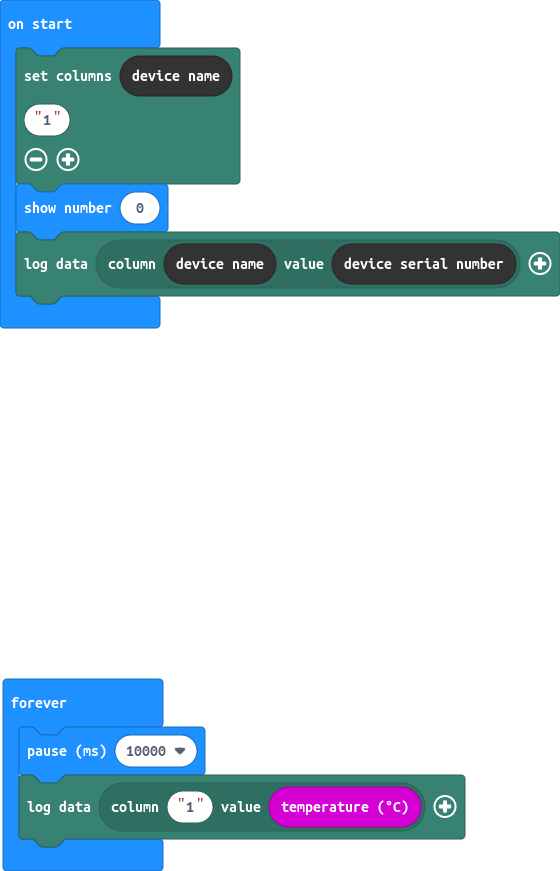
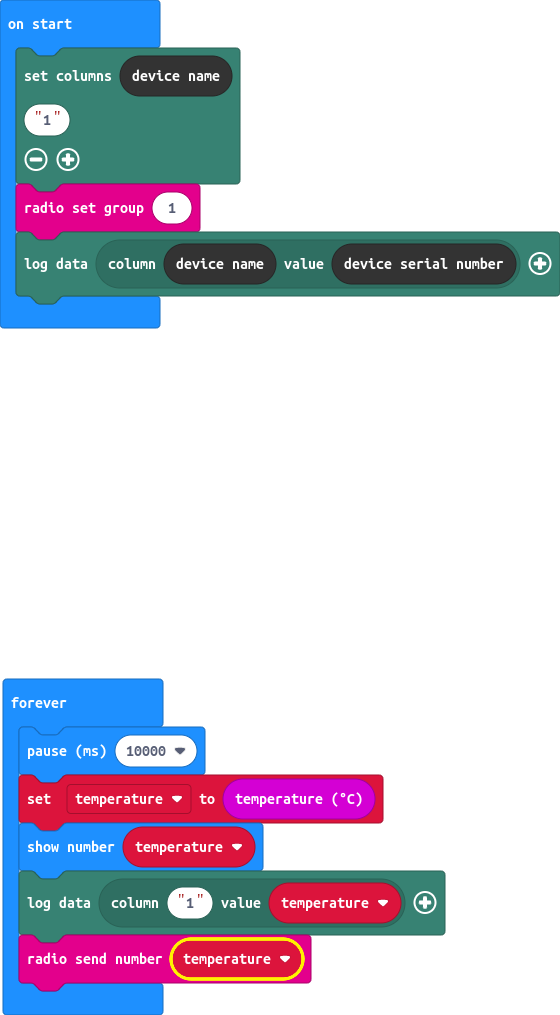
Added temperature display and radio reporting

Changed region(s): [[0.0, 0.651, 0.85, 0.992], [0.0, 0.0, 1.0, 0.403], [0.0, 0.0, 0.0304, 0.031]]

diff --git a/main.ts b/main.ts
@@ -1,10 +1,14 @@
+let temperature = 0
 datalogger.setColumnTitles(
 control.deviceName(),
 "1"
 )
-basic.showNumber(0)
+radio.setGroup(1)
 datalogger.log(datalogger.createCV(control.deviceName(), control.deviceSerialNumber()))
 basic.forever(function () {
     basic.pause(10000)
-    datalogger.log(datalogger.createCV("1", input.temperature()))
+    temperature = input.temperature()
+    basic.showNumber(temperature)
+    datalogger.log(datalogger.createCV("1", temperature))
+    radio.sendNumber(temperature)
 })
